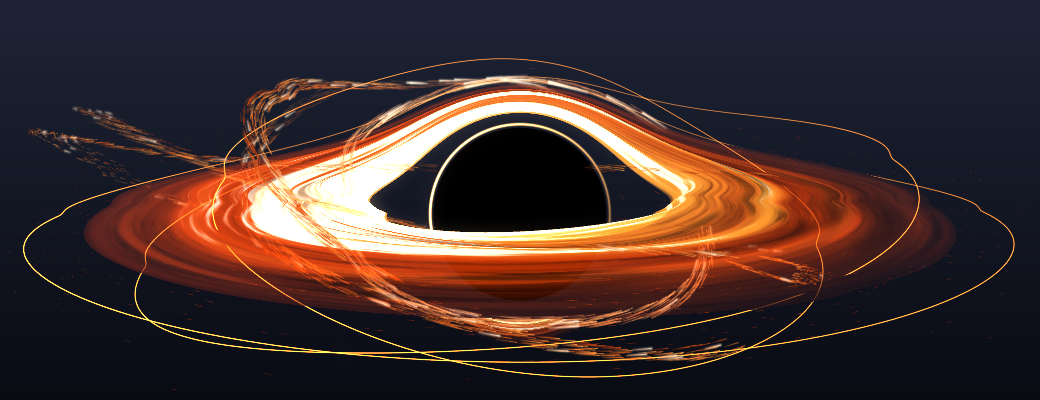
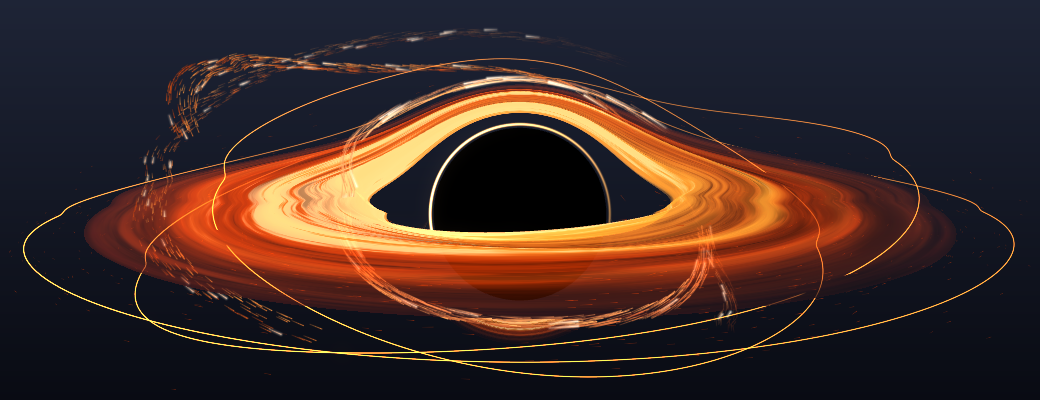
T06 integration: black hole tuning, stage shadow opt-out, results doc
- Black hole: highlights cap at a hot-tinted white instead of clipping to large pure-white areas
  (beaming clamp 2.2 → 1.8, bounded bloom term); fewer orbital streams in compact; dust lanes fade in
  the outer disk (no grey smudges on light desktops); sculpture camera pulled back so the outer rings fit
- SceneStage.apply(shadows:) — self-luminous themes (black hole, particle sphere) skip the shadow pass
- docs/design/3d/RESULTS.md: coordinator Release perf table (idle machine) and verification summary;
  refreshed black hole screenshots

scripts/test.sh: Core 167 + Scene 44 tests, 0 failures.

diff --git a/PulseFloatScene/Themes/BlackHoleTheme.swift b/PulseFloatScene/Themes/BlackHoleTheme.swift
@@ -31,7 +31,7 @@ struct BlackHoleLayout: Equatable {
             layout.diskRadial = sculpture ? 28 : 22
             layout.diskAngular = sculpture ? 200 : 160
             layout.octaves = 2
-            layout.streamCount = sculpture ? 4 : 3
+            layout.streamCount = sculpture ? 4 : 2
             layout.perStream = sculpture ? 420 : 300
             layout.dustCount = sculpture ? 500 : 260
             layout.ringSegments = 160
@@ -39,7 +39,7 @@ struct BlackHoleLayout: Equatable {
             layout.diskRadial = sculpture ? 40 : 34
             layout.diskAngular = sculpture ? 300 : 256
             layout.octaves = 3
-            layout.streamCount = sculpture ? 6 : 4
+            layout.streamCount = sculpture ? 6 : 3
             layout.perStream = sculpture ? 700 : 480
             layout.dustCount = sculpture ? 1300 : 600
             layout.ringSegments = 220
@@ -47,7 +47,7 @@ struct BlackHoleLayout: Equatable {
             layout.diskRadial = sculpture ? 56 : 48
             layout.diskAngular = sculpture ? 420 : 360
             layout.octaves = 4
-            layout.streamCount = sculpture ? 7 : 5
+            layout.streamCount = sculpture ? 7 : 3
             layout.perStream = sculpture ? 1000 : 640
             layout.dustCount = sculpture ? 2200 : 1000
             layout.ringSegments = 300
@@ -132,8 +132,8 @@ final class BlackHoleTheme: SceneTheme {
     func apply(_ settings: SceneSettings) {
         stage.apply(settings,
                     compact: CameraPose(target: SIMD3(0, 0.05, 0), distance: 4.4, elevation: 10, azimuth: 0, fov: 18),
-                    sculpture: CameraPose(target: SIMD3(0, -0.04, 0), distance: 4.0, elevation: 21, azimuth: 0, fov: 22),
-                    floorY: -0.78, pedestalRadius: nil, orbitSpeed: 3)
+                    sculpture: CameraPose(target: SIMD3(0, -0.04, 0), distance: 4.4, elevation: 21, azimuth: 0, fov: 22),
+                    floorY: -0.78, pedestalRadius: nil, orbitSpeed: 3, shadows: false)
         let next = BlackHoleLayout.make(quality: settings.quality, presentation: settings.presentation)
         layout = next
         if builtLayout != next {

diff --git a/PulseFloatScene/Themes/BlackHole/BlackHoleShaders.swift b/PulseFloatScene/Themes/BlackHole/BlackHoleShaders.swift
@@ -195,7 +195,7 @@ enum BlackHoleShaders {
     #pragma body
     float u = in.v_disk.x;
     float s = clamp(in.v_disk.y, 0.0, 1.0);
-    float beam = pow(clamp(in.v_disk.z, 0.2, 2.2), 2.4);
+    float beam = pow(clamp(in.v_disk.z, 0.2, 1.8), 2.4);
     float weight = in.v_disk.w;
     float side = in.v_aux.x;
     float psi = u * 6.2831853 - u_dyn1[3].x;
@@ -247,14 +247,16 @@ enum BlackHoleShaders {
     I = I * (1.0 + 2.2 * pulse) + 0.9 * pulse * edgeOut;
     I *= u_style.x;
     // 最亮處（射束側的內緣、脈衝）才轉白，像過曝；其餘維持色相
-    col = mix(col, float3(1.0), smoothstep(2.6, 4.4, I) * u_hot.w);
-    // 柔和的色調曲線：亮處維持色相，不會整片截成白色；最亮處留一點給 HDR bloom
-    float3 rgb = col * (1.0 - exp(-I * 1.4)) * 1.05 + u_hot.rgb * max(I - 2.6, 0.0) * 0.12;
-    rgb *= 1.0 - 0.75 * lane;
+    // 最亮也只到「帶熱色的白」，不會整片變純白（在淺色桌布上會和背景融在一起、看不出盤面形狀）
+    col = mix(col, mix(u_hot.rgb, float3(1.0), 0.6), 0.75 * smoothstep(3.0, 5.5, I) * u_hot.w);
+    // 柔和的色調曲線：亮處維持色相；最亮處留一點給 HDR bloom（有上限）
+    float3 rgb = col * (1.0 - exp(-I * 1.4)) * 1.0 + u_hot.rgb * min(max(I - 2.6, 0.0), 3.0) * 0.07;
+    rgb *= 1.0 - 0.5 * lane;
     // 不透明度主要由半徑決定（條紋之間是暗色而不是透明，在淺色桌布上也看得到紋理）
     float alpha = u_style.y * edgeIn * edgeOut * (0.72 + 0.28 * n) * (0.62 + 0.38 * pow(inner, 0.7));
     alpha *= 1.0 - 0.4 * smoothstep(0.35, 0.85, s);   // 外圈較稀薄：淺色桌布上不會留下灰色的霧
-    alpha = clamp(max(alpha, lane * 0.85 * edgeOut) + 0.3 * pulse * edgeOut, 0.0, 1.0);
+    // 塵帶在外圈變淡：淺色桌布上不會留下灰色污漬
+    alpha = clamp(max(alpha, lane * 0.6 * edgeOut * (1.0 - 0.5 * s)) + 0.3 * pulse * edgeOut, 0.0, 1.0);
     rgb += u_dust.rgb * lane * alpha * 0.4;
     if (u_mode.x > 1.5) {
         // 次級像：亮度隨對應程度衰減

diff --git a/PulseFloatScene/SceneStage.swift b/PulseFloatScene/SceneStage.swift
@@ -102,8 +102,9 @@ public final class SceneStage {
     ///   - floorY: 雕塑模式地面（陰影）的高度；台座頂面也在這裡。
     ///   - pedestalRadius: 台座半徑；nil 表示不要台座（只留陰影）。
     ///   - orbitSpeed: 雕塑模式下鏡頭每「音訊秒」環繞的角度（度）；靜音時音訊時鐘停止，鏡頭也停。
+    ///   - shadows: 雕塑模式是否投影到透明地面；自己發光、懸浮的主題傳 false，省掉整個陰影 pass。
     public func apply(_ settings: SceneSettings, compact: CameraPose, sculpture: CameraPose,
-                      floorY: Float = -1, pedestalRadius: Float? = 1.15, orbitSpeed: Float = 4) {
+                      floorY: Float = -1, pedestalRadius: Float? = 1.15, orbitSpeed: Float = 4, shadows: Bool = true) {
         self.settings = settings
         look = SceneMaterials.look(style: settings.style, palette: settings.palette)
         compactPose = compact
@@ -111,7 +112,7 @@ public final class SceneStage {
         self.orbitSpeed = orbitSpeed
         let isSculpture = settings.presentation == .sculpture
 
-        shadowFloor.isHidden = !isSculpture
+        shadowFloor.isHidden = !(isSculpture && shadows)
         shadowFloor.position = SCNVector3(0, CGFloat(floorY), 0)
         if let pedestalRadius, isSculpture {
             pedestal.isHidden = false
@@ -123,9 +124,9 @@ public final class SceneStage {
             pedestal.isHidden = true
         }
 
-        let shadows = isSculpture && settings.quality != .low
-        keyLight.light?.castsShadow = shadows
-        if shadows, let light = keyLight.light {
+        let castShadows = shadows && isSculpture && settings.quality != .low
+        keyLight.light?.castsShadow = castShadows
+        if castShadows, let light = keyLight.light {
             light.shadowMode = .forward
             light.shadowMapSize = settings.quality == .high ? CGSize(width: 2048, height: 2048) : CGSize(width: 1024, height: 1024)
             light.shadowSampleCount = settings.quality == .high ? 16 : 8

diff --git a/PulseFloatScene/Themes/ParticleSphereTheme.swift b/PulseFloatScene/Themes/ParticleSphereTheme.swift
@@ -46,10 +46,8 @@ final class ParticleSphereTheme: SceneTheme {
         // 精簡：球置中、光暈剛好碰到上下緣；雕塑：略俯視、球往上移，下方留出地面光池
         let compact = CameraPose(target: .zero, distance: 6.4, elevation: 6, azimuth: 0, fov: 28)
         let sculpture = CameraPose(target: SIMD3(0, -0.36, 0), distance: 6.8, elevation: 13, azimuth: -8, fov: 30)
-        stage.apply(settings, compact: compact, sculpture: sculpture, floorY: Self.floorY, pedestalRadius: nil, orbitSpeed: 3)
-        // 粒子不投射陰影（發光體），地面的接觸陰影由自己的光池負責：關掉陰影貼圖與只收陰影的地面，省一個繪製階段
-        stage.keyLight.light?.castsShadow = false
-        stage.shadowFloor.isHidden = true
+        stage.apply(settings, compact: compact, sculpture: sculpture, floorY: Self.floorY, pedestalRadius: nil, orbitSpeed: 3, shadows: false)
+        // 粒子不投射陰影（發光體），地面的接觸陰影由自己的光池負責：shadows: false 關掉陰影貼圖與只收陰影的地面
 
         let next = ParticleSphereRecipe.make(quality: settings.quality, presentation: settings.presentation)
         if next != recipe {

diff --git a/docs/design/3d/RESULTS.md b/docs/design/3d/RESULTS.md
@@ -1,0 +1,38 @@
+# 3D 主題整合結果（協調者驗收，2026-10-12）
+
+三個主題由三個平行 worktree 實作、各自審查一次後合併到 `task/T06-3d-themes`；整合時協調者另外調整了黑洞
+（射束側的高光不再截成整片純白、精簡模式的粒子流減少、外圈塵帶在淺色桌布上不再像灰色污漬、雕塑鏡頭退後讓外環完整入鏡）
+以及 `SceneStage.apply(shadows:)`（自己發光的黑洞、粒子球不再跑空的陰影 pass）。
+
+## 效能（Release，`scripts/shots.sh --perf`，1040×400 px 離屏，中位數 / p95，毫秒）
+
+CPU = 主執行緒上的主題 update + SceneKit encode；GPU = command buffer 的 gpuEndTime − gpuStartTime（分開量，互不代表）。
+靜音時主題回報靜止，即時畫面整個略過繪製（CPU update ≈ 0、GPU 0）。量測時機器上沒有其他代理在跑。
+
+| theme | quality | presentation | CPU update | CPU encode | CPU total | GPU | silent CPU |
+|---|---|---|---|---|---|---|---|
+| blackhole | low | compact | 0.02 / 0.03 | 0.18 / 0.26 | 0.21 / 0.29 | 0.14 / 0.30 | 0.00 |
+| blackhole | low | sculpture | 0.02 / 0.03 | 0.19 / 0.23 | 0.21 / 0.25 | 0.17 / 0.38 | 0.00 |
+| blackhole | medium | compact | 0.02 / 0.03 | 0.18 / 0.24 | 0.21 / 0.26 | 0.40 / 0.58 | 0.00 |
+| blackhole | medium | sculpture | 0.02 / 0.03 | 0.20 / 0.25 | 0.22 / 0.27 | 0.51 / 0.56 | 0.00 |
+| blackhole | high | compact | 0.02 / 0.03 | 0.21 / 0.30 | 0.24 / 0.33 | 0.67 / 0.98 | 0.00 |
+| blackhole | high | sculpture | 0.02 / 0.03 | 0.23 / 0.29 | 0.25 / 0.32 | 0.91 / 1.25 | 0.00 || particles | low | compact | 0.01 / 0.01 | 0.08 / 0.10 | 0.09 / 0.11 | 0.03 / 0.17 | 0.00 |
+| particles | low | sculpture | 0.01 / 0.01 | 0.10 / 0.16 | 0.11 / 0.22 | 0.04 / 0.14 | 0.00 |
+| particles | medium | compact | 0.01 / 0.01 | 0.09 / 0.10 | 0.10 / 0.11 | 0.08 / 0.16 | 0.00 |
+| particles | medium | sculpture | 0.01 / 0.02 | 0.10 / 0.13 | 0.11 / 0.15 | 0.13 / 0.34 | 0.00 |
+| particles | high | compact | 0.01 / 0.01 | 0.10 / 0.12 | 0.11 / 0.13 | 0.23 / 0.53 | 0.00 |
+| particles | high | sculpture | 0.01 / 0.01 | 0.11 / 0.13 | 0.12 / 0.14 | 0.38 / 0.42 | 0.00 |
+| terrain | low | compact | 0.00 / 0.00 | 0.01 / 0.02 | 0.02 / 0.03 | 0.06 / 0.14 | 0.00 |
+| terrain | low | sculpture | 0.00 / 0.00 | 0.02 / 0.02 | 0.02 / 0.03 | 0.05 / 0.12 | 0.00 |
+| terrain | medium | compact | 0.00 / 0.00 | 0.01 / 0.02 | 0.02 / 0.03 | 0.09 / 0.19 | 0.00 |
+| terrain | medium | sculpture | 0.00 / 0.01 | 0.03 / 0.04 | 0.04 / 0.05 | 0.12 / 0.30 | 0.00 |
+| terrain | high | compact | 0.01 / 0.01 | 0.01 / 0.02 | 0.02 / 0.03 | 0.14 / 0.45 | 0.00 |
+| terrain | high | sculpture | 0.01 / 0.01 | 0.03 / 0.04 | 0.04 / 0.05 | 0.21 / 0.39 | 0.00 |
+預算：CPU 目標 < 2 ms／幀 → 三個主題在所有畫質都 ≤ 0.25 ms。GPU 最重的是黑洞 HIGH 雕塑約 0.9 ms（1040×400）；
+Retina 全尺寸視窗的 GPU 成本大致與像素數成正比。
+
+## 驗證
+
+- `scripts/test.sh`：PulseFloatCoreTests 167、PulseFloatSceneTests 44，全部通過；`scripts/build.sh` 零警告。
+- 每個主題 × 兩種呈現方式：靜音 4 秒後兩幀逐像素相同、`isAtRest == true`（契約測試＋截圖工具雙重確認）。
+- 截圖：`blackhole/`、`particles/`、`terrain/` 資料夾（真正的 SceneRenderer 輸出，深色／淺色桌布 × 精簡／雕塑 × 主歌／副歌拍點／靜音，及 8 種風格）。
